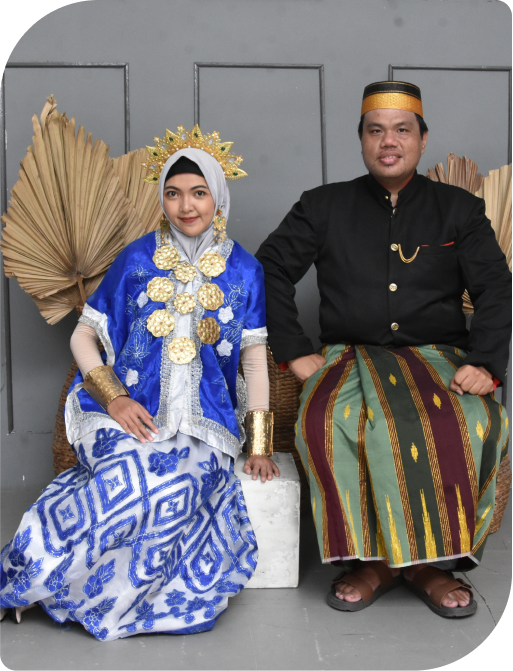
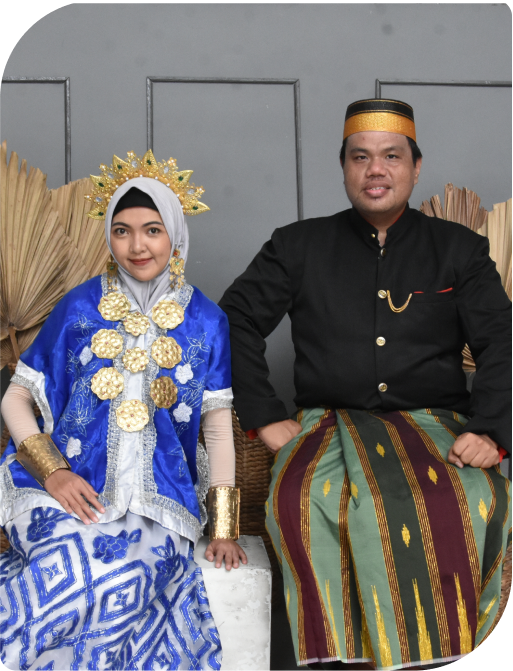
fix: gallery & cover mirah-indra

diff --git a/mirah-indra/index.html b/mirah-indra/index.html
@@ -45,7 +45,7 @@
 	<body id="body" class="flex overflow-y-hidden">
 		<aside class="flex-1 bg-gray-200 sticky top-0 h-screen block">
 			<img
-				src="./assets/img/cover.jpeg"
+				src="./assets/img/cover.png"
 				class="w-full h-full object-cover"
 			/>
 		</aside>
@@ -807,7 +807,7 @@
 		<!-- Modal -->
 		<section
 			id="modal"
-			class="w-full z-50 fixed inset-0 bg-[url('./assets/img/cover.jpeg')] bg-cover bg-center overflow-y-auto"
+			class="w-full z-50 fixed inset-0 bg-[url('./assets/img/cover.png')] bg-cover bg-center overflow-y-auto"
 		>
 			<div
 				class="flex flex-col items-center justify-center max-w-4xl h-full m-auto p-5"
